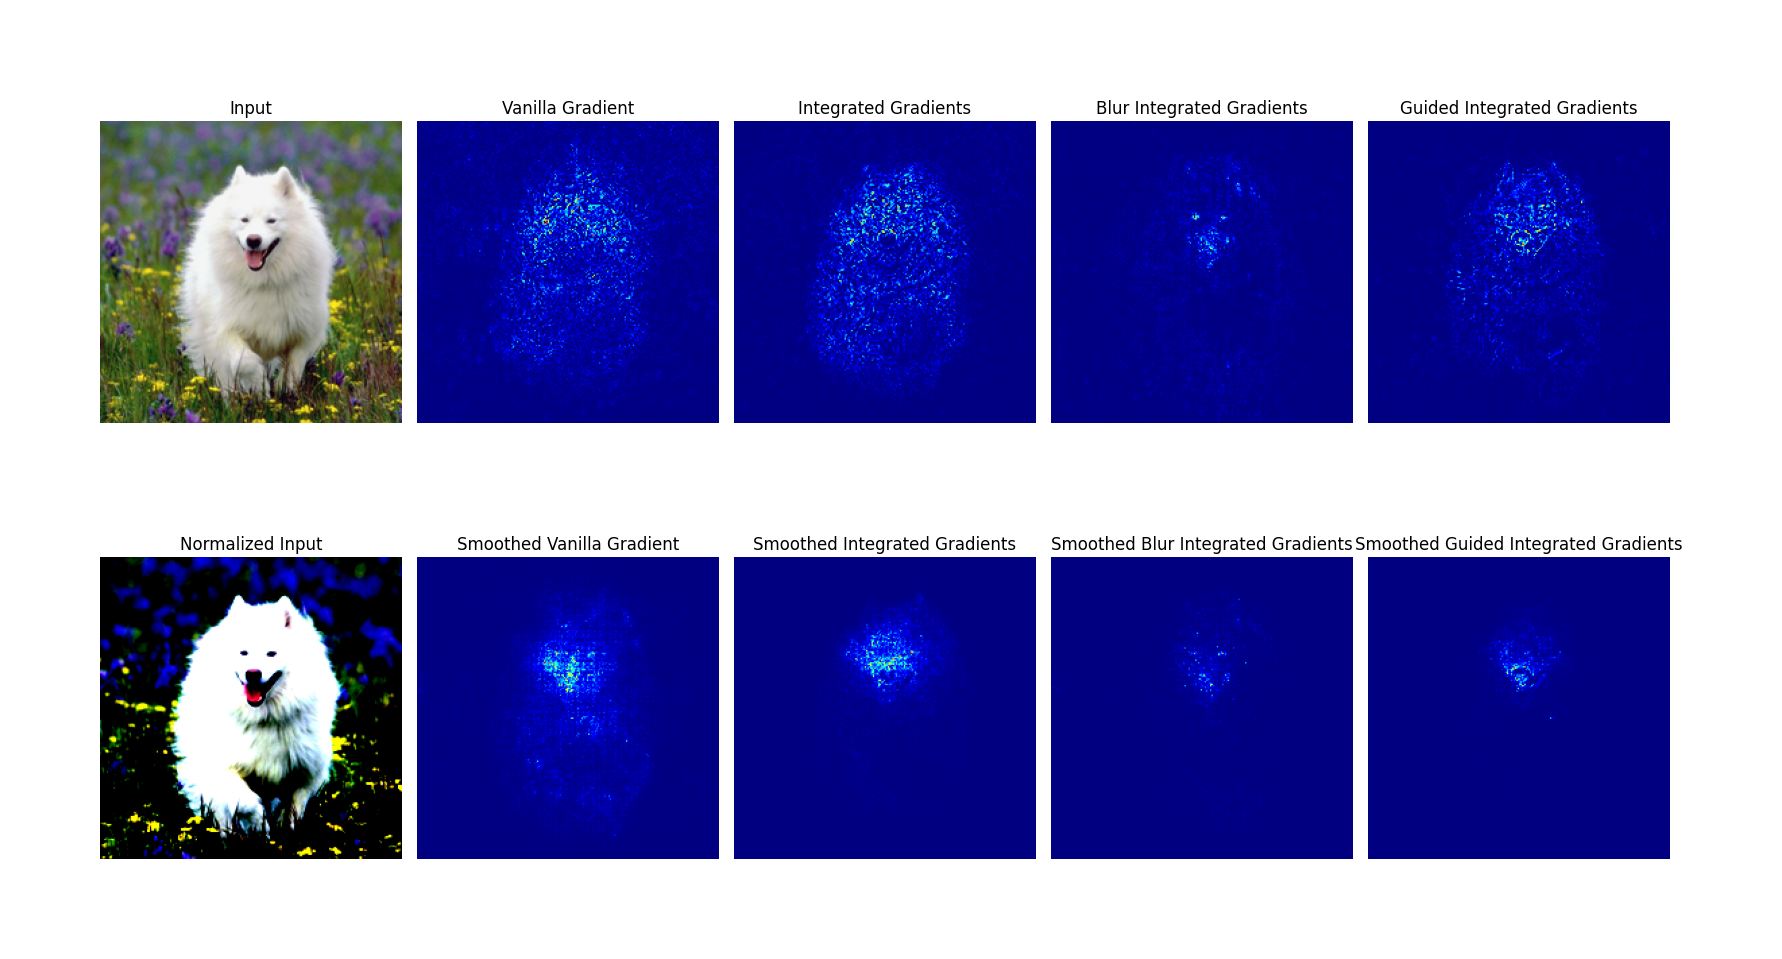
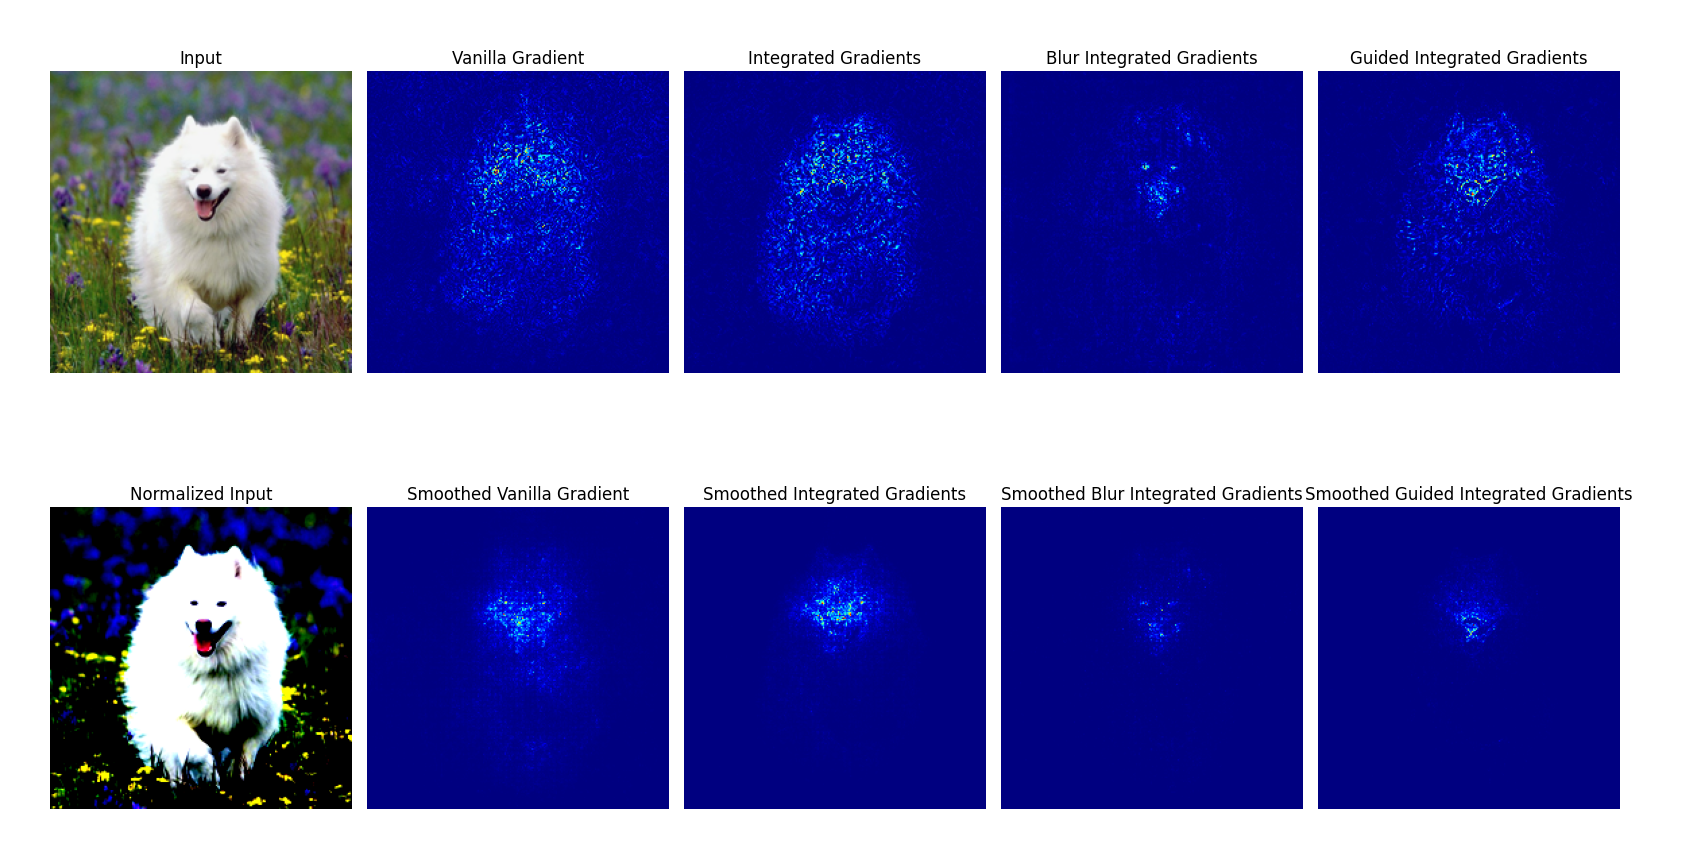
update readme

diff --git a/cam_visualization_examples.py b/cam_visualization_examples.py
@@ -80,4 +80,24 @@ if __name__ == '__main__':
     bagcam_net = BagCAM(model)
     bag_cam = normalize_saliency(bagcam_net.get_mask(img, target_index, target_layer))
     
+    # Visualize the saliency maps
+    plt.figure(figsize=(16, 5))
+    plt.subplot(1,5,1)
+    plt.title('Input')
+    plt.axis('off')
+    plt.imshow(dog)
+    plt.subplot(1,5,2)
+    plt.title('GradCAM')
+    visualize_single_saliency(grad_cam)
+    plt.subplot(1,5,3)
+    plt.title('GradCAM++')
+    visualize_single_saliency(grad_cam_plus_plus)
+    plt.subplot(1,5,4)
+    plt.title('XGradCAM')
+    visualize_single_saliency(xgrad_cam)
+    plt.subplot(1,5,5)
+    plt.title('BagCAM')
+    visualize_single_saliency(bag_cam)
+    plt.tight_layout()
+    plt.savefig('examples/cam_visualization.png', bbox_inches='tight', pad_inches=0.5)
     

diff --git a/gradients_visualization_examples.py b/gradients_visualization_examples.py
@@ -94,4 +94,4 @@ if __name__ == '__main__':
     plt.title('Smoothed Guided Integrated Gradients')
     visualize_single_saliency(attribution_smooth_guided_ig)
     plt.tight_layout()
-    plt.savefig('examples/gradients_visualization.png', bbox_inches='tight', pad_inches=1)
+    plt.savefig('examples/gradients_visualization.png', bbox_inches='tight', pad_inches=0.5)

diff --git a/README.md b/README.md
@@ -1,11 +1,15 @@
-# Explainability Methods for PyTorch Image Models (timm)
-This is an ongoing work to implement various attribution methods for image classification models from [timm](https://github.com/huggingface/pytorch-image-models).
+# Attritbuion Methods for Image Classification Models
+This is an ongoing work to implement various attribution methods for image classification models in PyTorch using a unified framework.
 
 ## Gradients Visualization
-results of resnet50 from timm, example code at [./gradientss_visualization_examples.py](./gradients_visualization_examples.py)
+some results of resnet50 from timm, example code at [./gradientss_visualization_examples.py](./gradients_visualization_examples.py)
 
 <img src="./examples/gradients_visualization.png">
 
+## Class Activation Map (CAM) Visualization
+some results of resnet50 from timm, the target layer is `layer3`, example code at [./gradientss_visualization_examples.py](./gradients_visualization_examples.py)
+
+<img src="./examples/cam_visualization.png">
 
 ## TODO:
 - [x] Unify gradient visualization API
